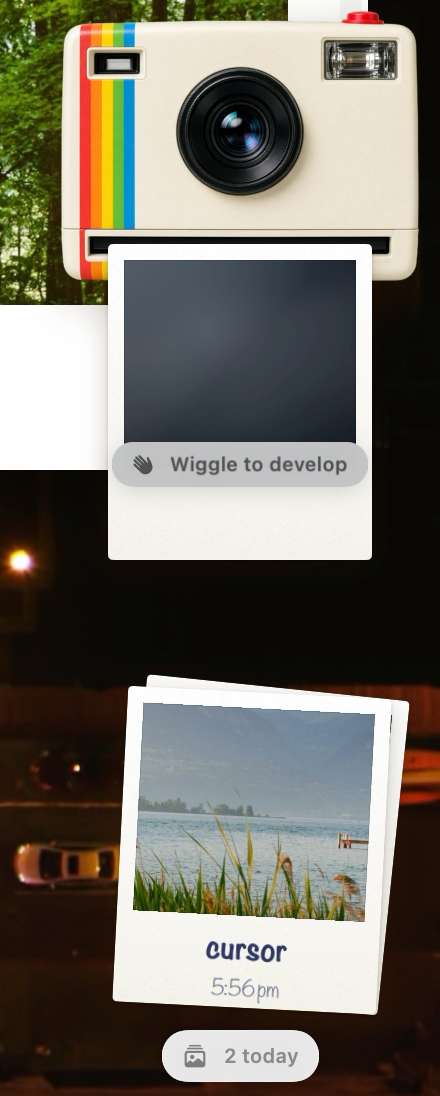
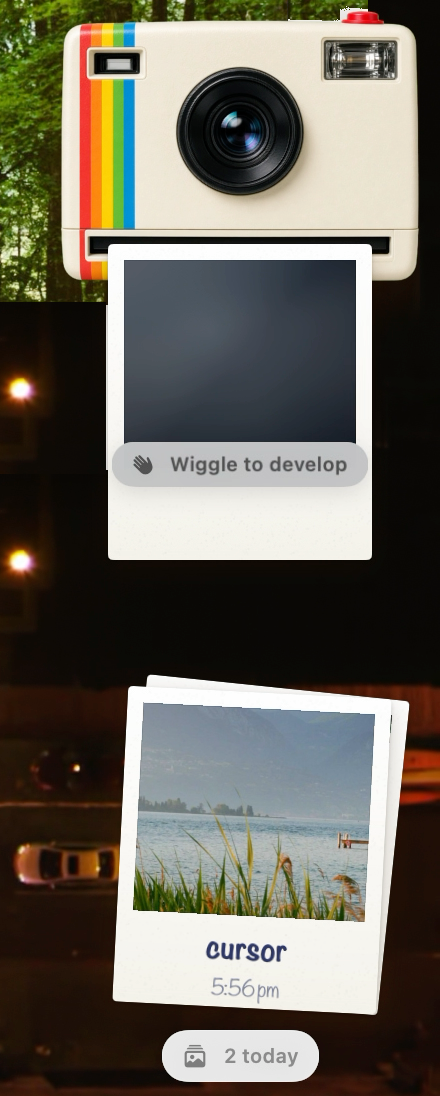
README: remove the white patch behind the camera, show one developed print instead of the feed strip

Changed region(s): [[0.0, 0.2482, 0.2659, 0.4343], [0.65, 0.0, 0.8273, 0.031]]

diff --git a/README.md b/README.md
@@ -36,7 +36,7 @@ You take a screenshot, the little preview vanishes before you can drag it anywhe
 - **Handwritten captions.** On-device text recognition writes each print’s most prominent words on it, so you can tell prints apart at a glance. Nothing leaves your Mac.
 
 <p align="center">
-  <img src="docs/images/feed.png" width="760" alt="Five frames from a screen recording of the camera feeding out a print: a thin edge appears in the slot, then the sheet curls out, sags, and hangs fully out">
+  <img src="docs/images/developed.png" width="200" alt="The instant camera with a fully developed print hanging out of its slot, showing a lake photo">
 </p>
 
 ### The pile
